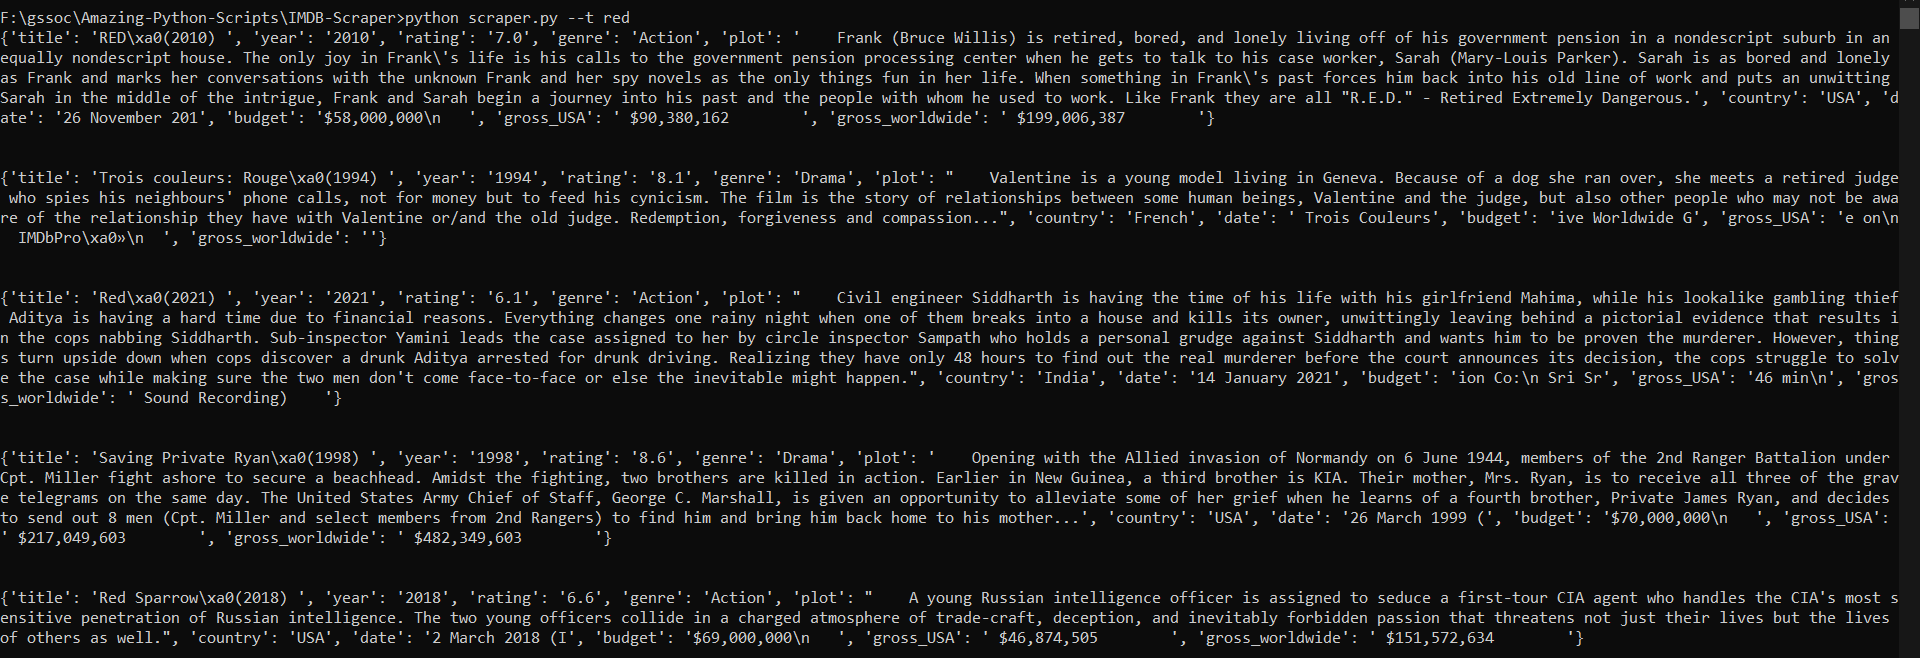
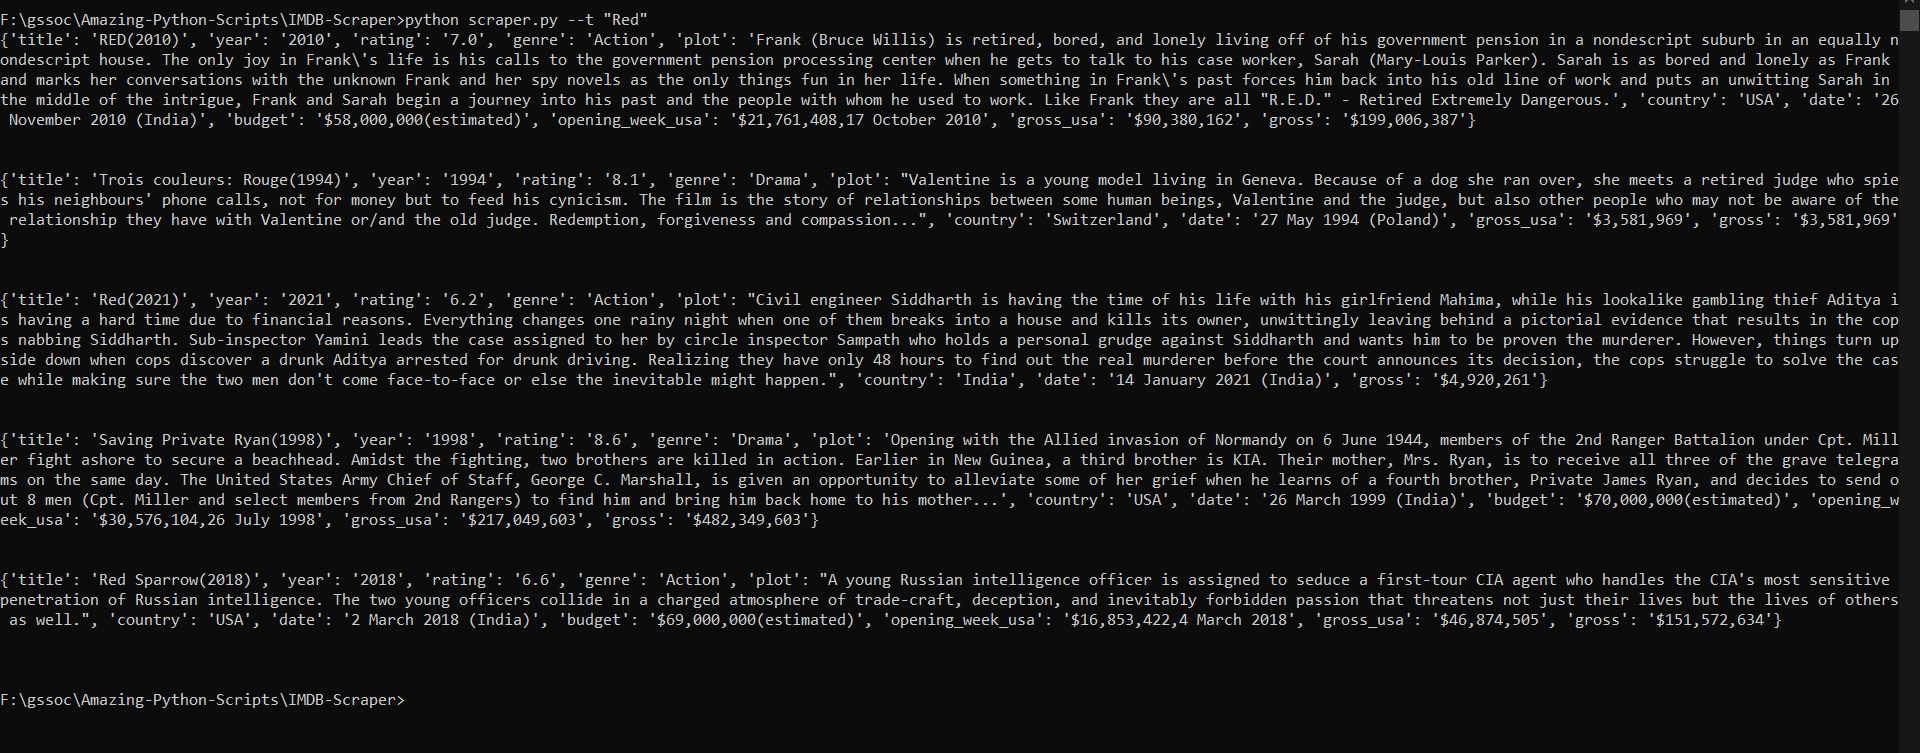
fix(IMDB Scraper) : Fixed bugs and made changes recommended
Cleaned output, fixed bugs, made changes recommended in PR review

Changed region(s): [[0.0, 0.2128, 1.0, 0.8511], [0.0, 0.0, 1.0, 0.1824], [0.0, 0.8815, 1.0, 1.0]]

diff --git a/IMDB-Scraper/scraper.py b/IMDB-Scraper/scraper.py
@@ -12,52 +12,73 @@ parser.add_argument('--t', action='store', type=str, required=True,
 base_id = "https://www.imdb.com/title"
 # base url is used when the user gives a title to search for
 base = "https://www.imdb.com/find?s=tt&q="
-# for parsing we have used the lxml parser for optimization purposes, if lxml does not work for you replace 'lxml' with 'html.parser'
 
 
 def get_info(soup):
     info = {}
+    labels = ["title", "year", "rating", "genre", "plot", "date", "country",
+              "language", "budget", "gross", "gross_usa", "opening_week_usa"]
     try:
         info["title"] = soup.find(
-            'div', attrs={"class": "title_wrapper"}).h1.text
-        info["year"] = soup.find('span', attrs={"id": "titleYear"}).a.text
+            'div', attrs={"class": "title_wrapper"}).h1.get_text(strip=True)
+        info["year"] = soup.find(
+            'span', attrs={"id": "titleYear"}).a.get_text(strip=True)
         info["rating"] = soup.find(
-            'span', attrs={"itemprop": "ratingValue"}).text
+            'span', attrs={"itemprop": "ratingValue"}).get_text(strip=True)
         subtext = soup.find("div", attrs={"class": "subtext"})
-        info["genre"] = subtext.a.text
+        info["genre"] = subtext.a.get_text(strip=True)
         article = soup.find('div', attrs={"id": "titleStoryLine"})
         info["plot"] = article.find(
-            'div', attrs={"class": "canwrap"}).p.span.text
+            'div', attrs={"class": "canwrap"}).p.span.get_text(strip=True)
         details = soup.find('div', attrs={"id": "titleDetails"})
         blocks = details.findAll('div', attrs={"class": "txt-block"})
-      #   Strings have been stripped as the html of imdb is not clean
-      # Formatting of strings is preferrential you can change that to suit your needs
-        info["country"] = blocks[1].a.text
-        info["date"] = blocks[3].text[15:30]
-        info["budget"] = blocks[6].text[8:23]
-        info["gross_USA"] = blocks[8].text[11:]
-        info["gross_worldwide"] = blocks[9].text[28:]
+        for block in blocks:
+            heading = block.h4.get_text(strip=True)
+            if heading == "Release Date:":
+                info["date"] = block.get_text(strip=True).replace(
+                    "See more»", '').replace(heading, '')
+            if heading == "Country:":
+                info["country"] = block.a.get_text(strip=True)
+            if heading == "Language":
+                info["language"] = block.a.get_text(strip=True)
+            if heading == "Budget:":
+                info["budget"] = block.get_text(
+                    strip=True).replace(heading, '')
+            if heading == "Cumulative Worldwide Gross:":
+                info["gross"] = block.get_text(
+                    strip=True).replace(heading, '')
+            if heading == "Gross USA:":
+                info["gross_usa"] = block.get_text(
+                    strip=True).replace(heading, '')
+            if heading == "Opening Weekend USA:":
+                info["opening_week_usa"] = block.get_text(
+                    strip=True).replace(heading, '')
     except:
-        print("Something went wrong")
+        assert any(obj in labels for obj in info), "No info found"
 
-    print(info, end="\n\n\n")
+    if len(info) > 4:
+        print(info, end="\n\n\n")
 
 
 def find_movie(query):
     url = base+query
     resp = requests.get(url)
+# for parsing we have used the lxml parser for optimization purposes, if lxml does not work for you replace 'lxml' with 'html.parser'
     soup1 = bs(resp.text, 'lxml')
-#     Since for every query imdb gives about 150-200 responses , we choose the top 5 and return the details for them
+# Since for every query imdb gives about 150-200 responses , we choose the top 5 and return the details for them
     movie_list = soup1.findAll("tr", attrs={"class": "findResult"})[0:5]
-    for movie in movie_list:
-      #     Through the table given , we extract the title id from the 'href' attribute of the <a> tag
-        title_id = movie.find(
-            'td', attrs={"class": "result_text"}).a.attrs["href"][6:]
+    if movie_list:
+        for movie in movie_list:
+            # Through the table given , we extract the title id from the 'href' attribute of the <a> tag
+            title_id = movie.find(
+                'td', attrs={"class": "result_text"}).a.attrs["href"][6:]
 
-        url = base_id+title_id
-        respo = requests.get(base_id+title_id)
-        soup = bs(respo.text, 'lxml')
-        get_info(soup)
+            url = base_id+title_id
+            respo = requests.get(base_id+title_id)
+            soup = bs(respo.text, 'lxml')
+            get_info(soup)
+    else:
+        print("No results found")
 
 
 if __name__ == "__main__":

diff --git a/IMDB-Scraper/README.md b/IMDB-Scraper/README.md
@@ -20,8 +20,8 @@ Collects the information given on IMDB for the given title
 ## Usage
 
 - Install dependencies
-- python scraper.py --t movie-name-here
-- sample : python scraper.py --t red
+- python scraper.py --t movie-name-here(in double quotes)
+- sample : python scraper.py --t "red"
 
 ## Screenshots
 
